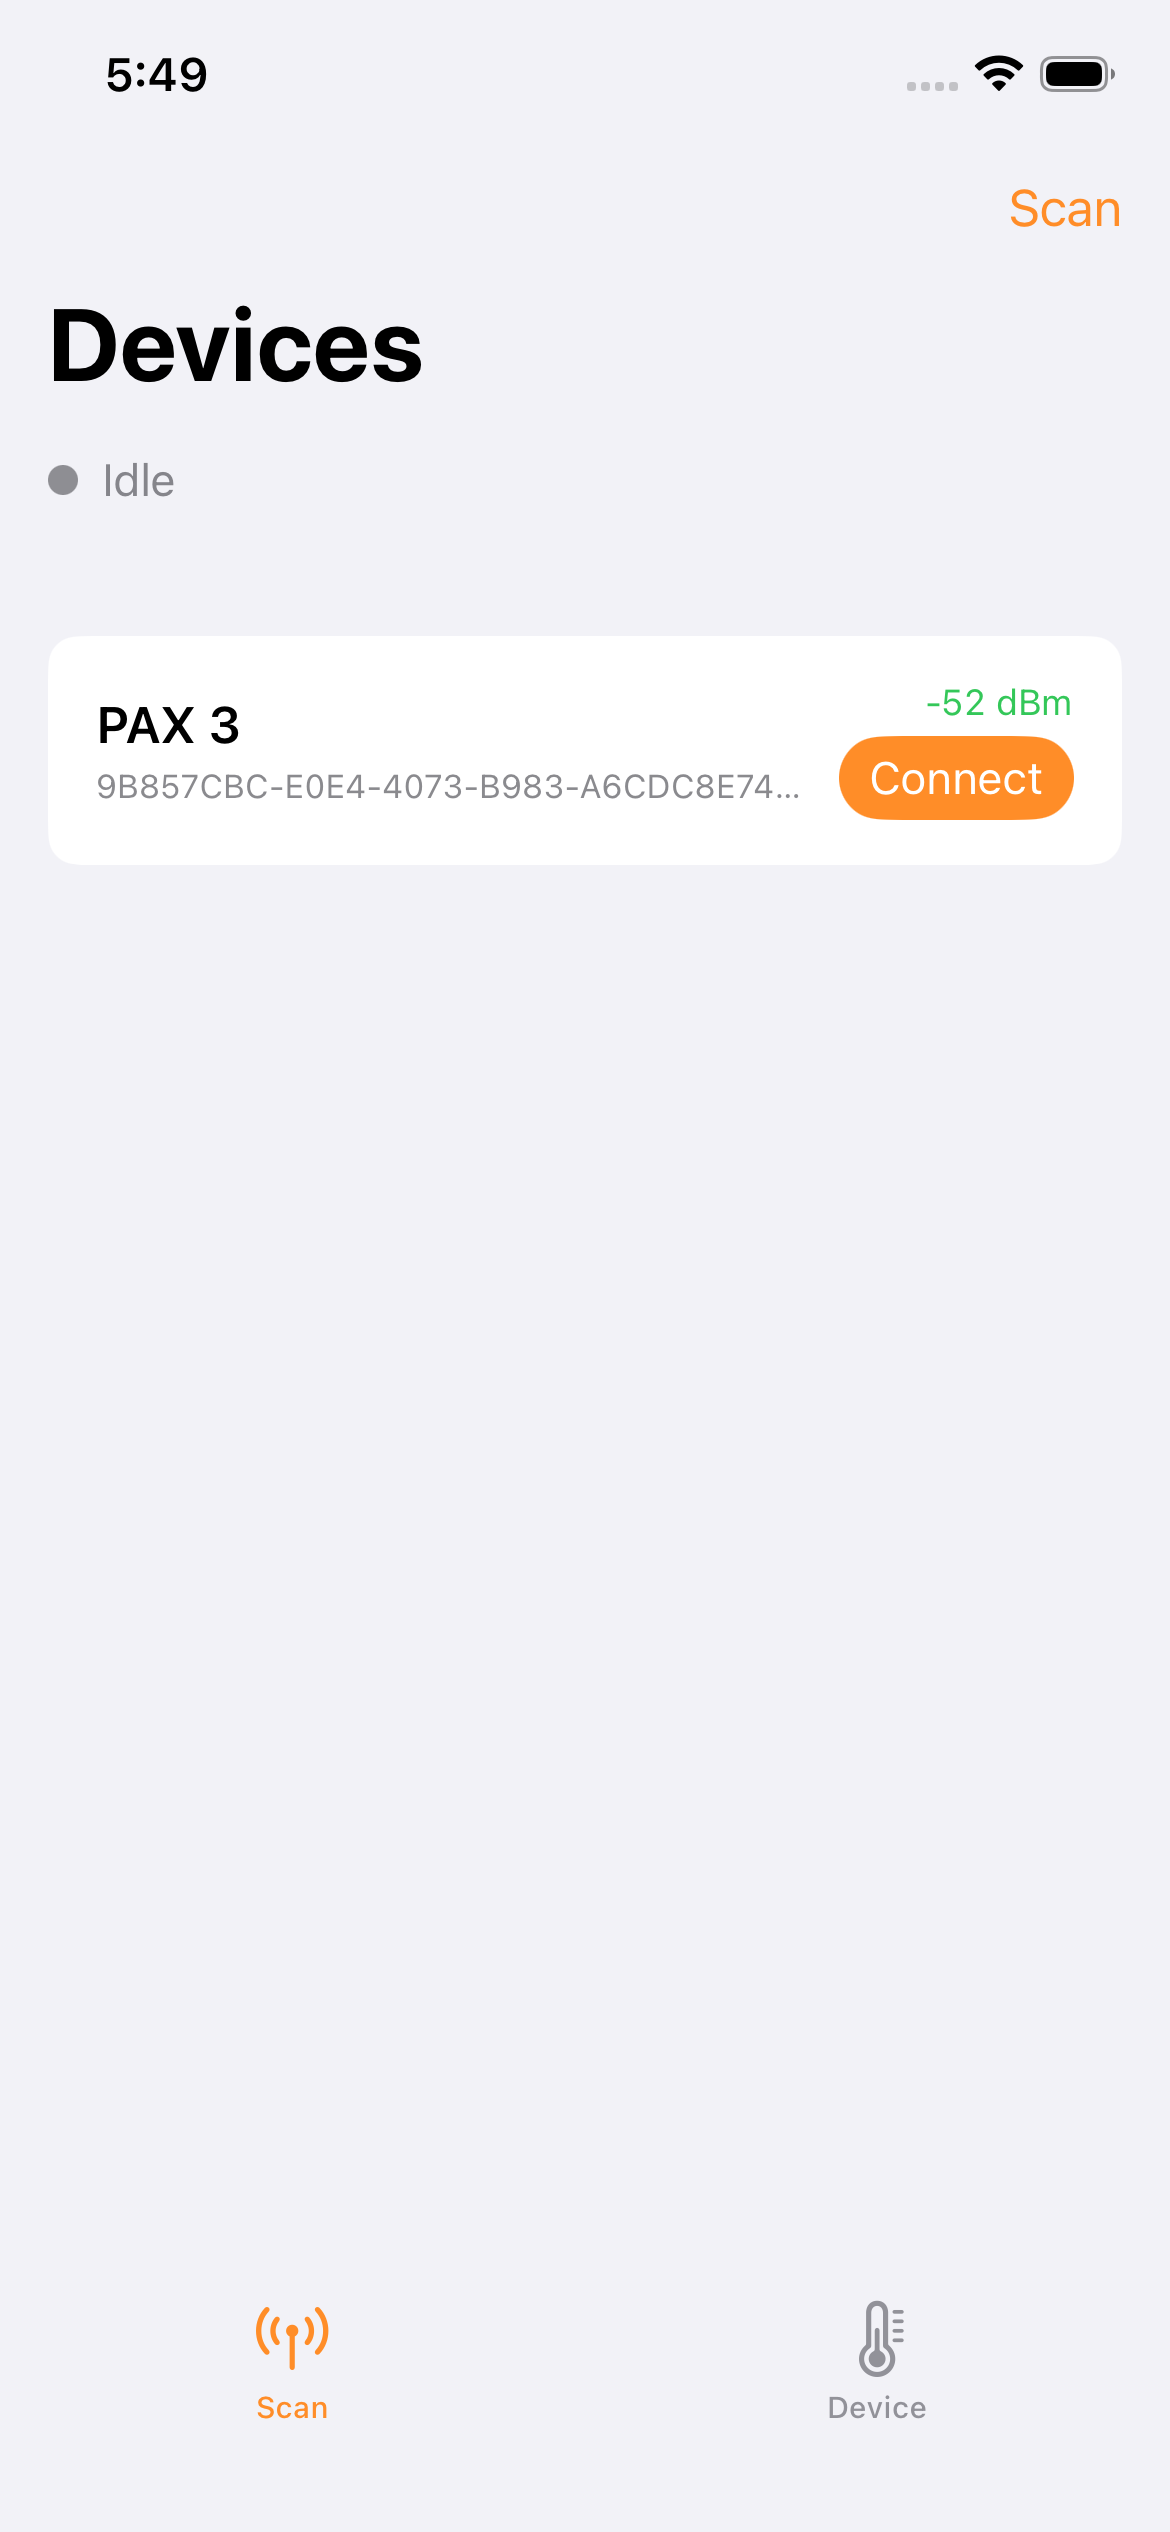
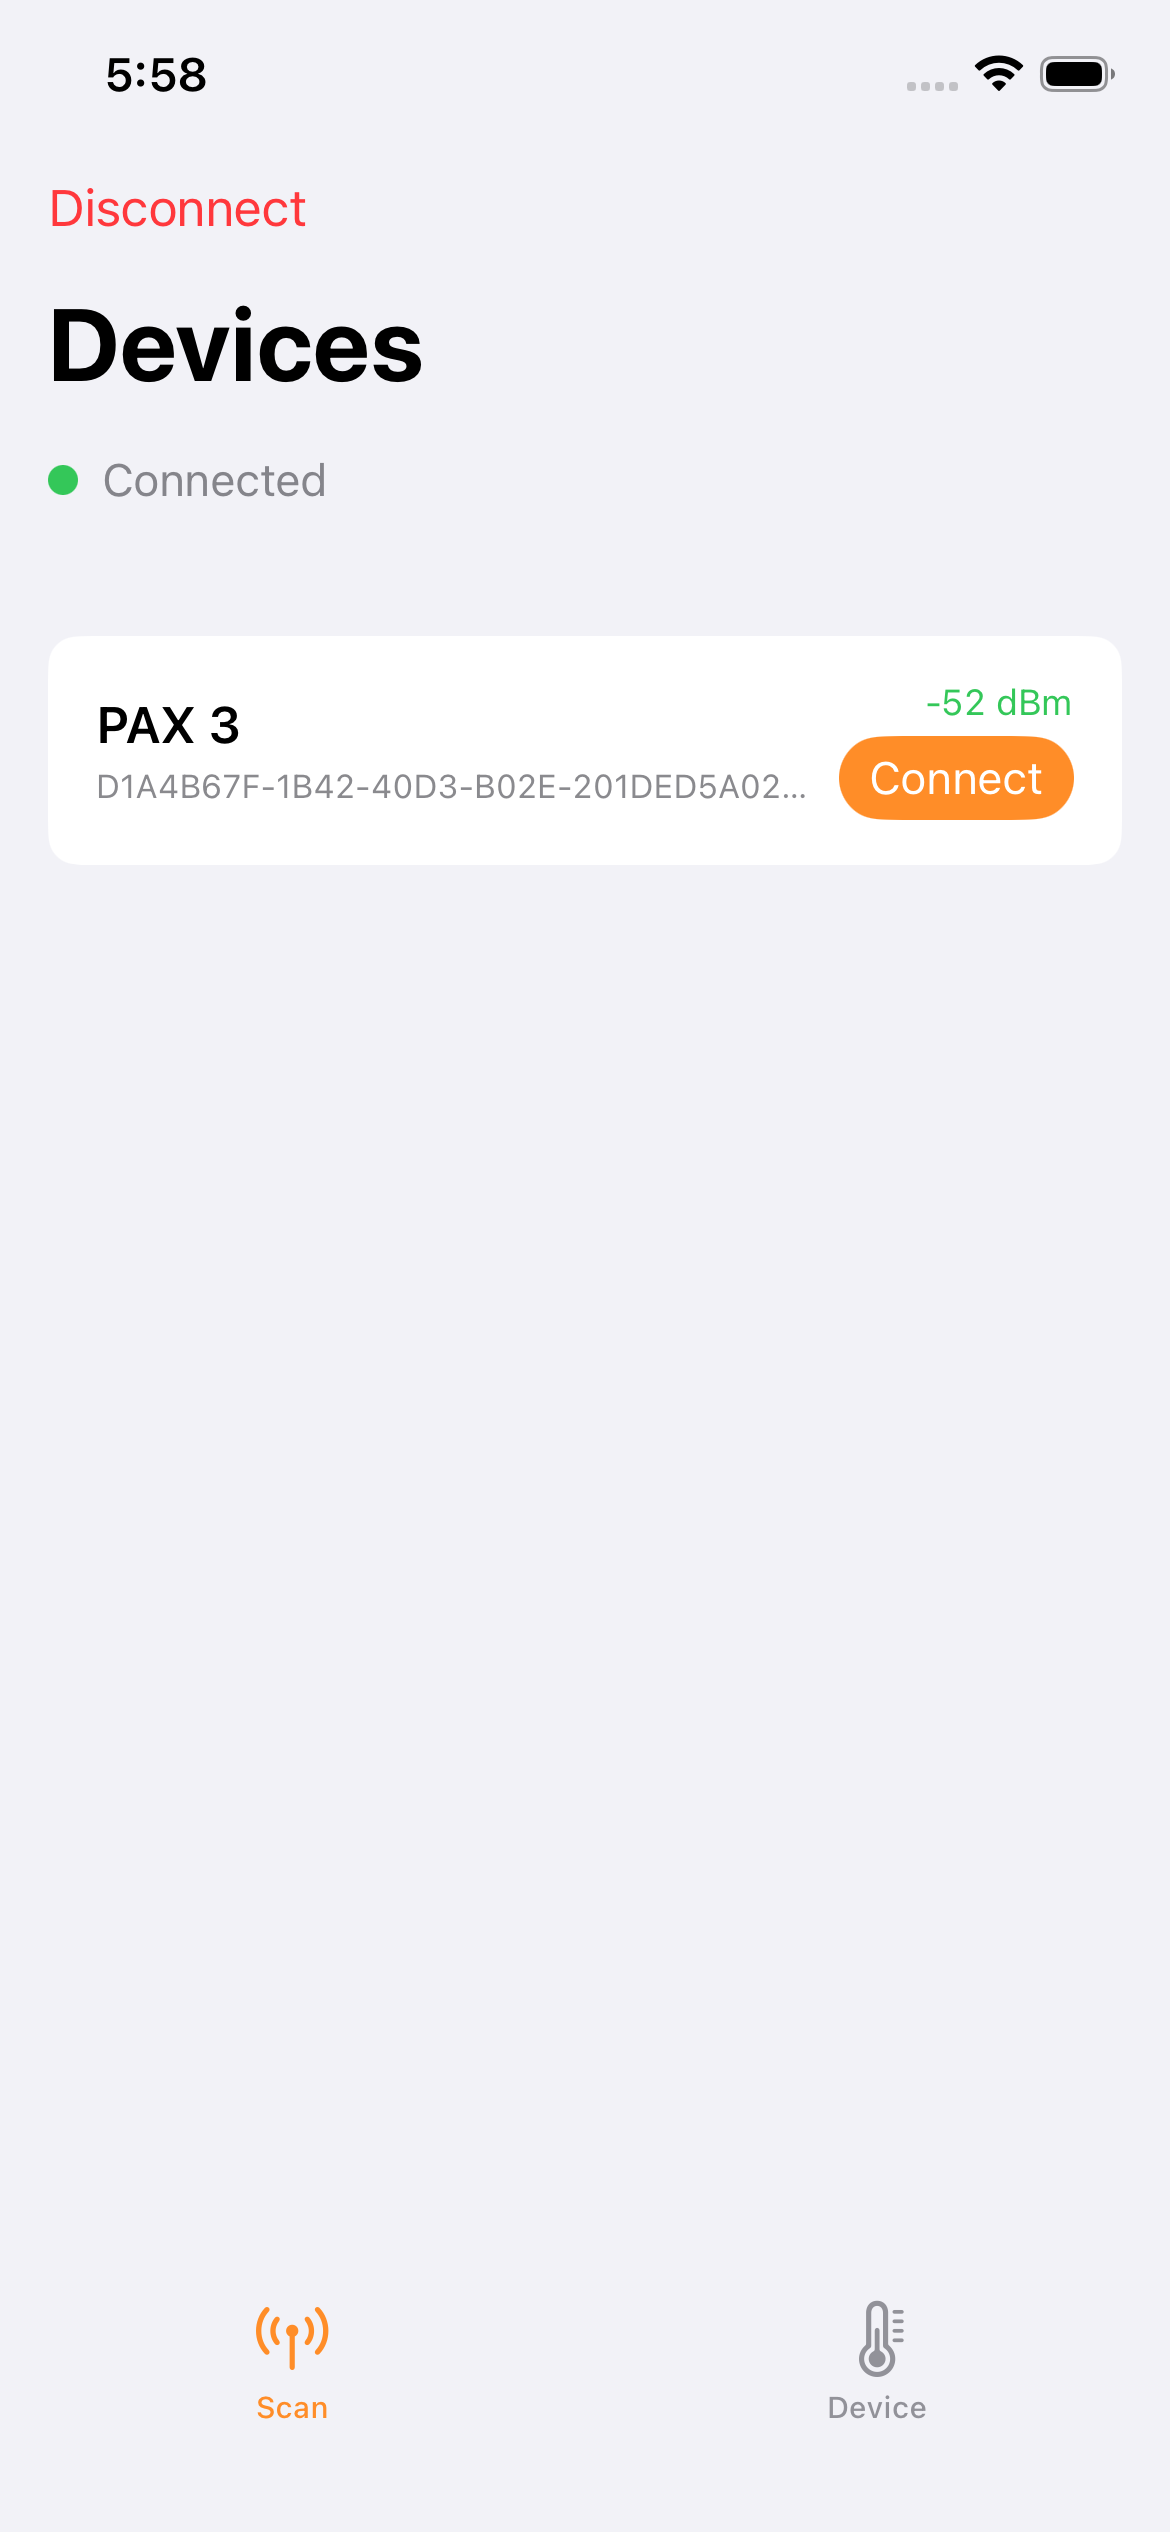
Update simulator screenshots (run 34877495604)

diff --git a/screenshots/README.md b/screenshots/README.md
@@ -4,7 +4,7 @@ Captured automatically by the `Simulator screenshots` workflow.
 
 - Device: iPhone 14
 - Runtime: iOS 26.2
-- Run: 34876762716
+- Run: 34877495604
 
 The simulator has no Bluetooth radio, so the app shows its
 disconnected state. These confirm the app builds, launches and
